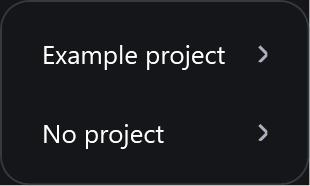
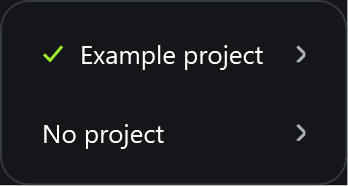
Mark selected project and sort shared session picker by dates

diff --git a/src/CodexUsageWidget/SessionPicker.cs b/src/CodexUsageWidget/SessionPicker.cs
@@ -17,6 +17,7 @@ internal static class SessionPicker
     internal static IReadOnlyList<Group> GroupThreads(IReadOnlyList<ThreadChoice> threads, string? metadata)
     {
         var names = new Dictionary<string, string>(StringComparer.Ordinal);
+        var createdAt = new Dictionary<string, long>(StringComparer.Ordinal);
         var assignments = new Dictionary<string, string>(StringComparer.Ordinal);
         try
         {
@@ -24,8 +25,13 @@ internal static class SessionPicker
             var root = doc.RootElement;
             if (root.TryGetProperty("local-projects", out var projects) && projects.ValueKind == JsonValueKind.Object)
                 foreach (var project in projects.EnumerateObject())
+                {
+                    if (project.Value.ValueKind != JsonValueKind.Object) continue;
                     if (project.Value.TryGetProperty("name", out var name) && name.ValueKind == JsonValueKind.String)
                         names[project.Name] = name.GetString()!;
+                    if (project.Value.TryGetProperty("createdAt", out var date) && date.ValueKind == JsonValueKind.Number &&
+                        date.TryGetInt64(out var timestamp)) createdAt[project.Name] = timestamp;
+                }
             if (root.TryGetProperty("thread-project-assignments", out var map) && map.ValueKind == JsonValueKind.Object)
                 foreach (var item in map.EnumerateObject())
                     if (item.Value.ValueKind == JsonValueKind.Object && item.Value.TryGetProperty("projectId", out var id) && id.ValueKind == JsonValueKind.String)
@@ -35,8 +41,11 @@ internal static class SessionPicker
         return threads.GroupBy(thread => assignments.GetValueOrDefault(thread.Id) ?? "")
             .Select(group => new Group(group.Key, group.Key.Length == 0 ? Localization.Current["NoProject"] :
                 names.GetValueOrDefault(group.Key) ?? group.Select(thread => thread.Cwd?.TrimEnd('\\', '/').Split('\\', '/').LastOrDefault())
-                    .FirstOrDefault(name => !string.IsNullOrWhiteSpace(name)) ?? group.Key, group.ToArray()))
-            .OrderBy(group => group.Key.Length == 0).ThenBy(group => group.Name, StringComparer.CurrentCultureIgnoreCase).ToArray();
+                    .FirstOrDefault(name => !string.IsNullOrWhiteSpace(name)) ?? group.Key,
+                group.OrderByDescending(thread => thread.LastUsedAt).ToArray()))
+            .OrderBy(group => group.Key.Length == 0)
+            .ThenByDescending(group => createdAt.GetValueOrDefault(group.Key, long.MinValue))
+            .ThenBy(group => group.Name, StringComparer.CurrentCultureIgnoreCase).ToArray();
     }
 
     internal static async Task<IReadOnlyList<ThreadChoice>> ReadAllAsync(CodexClient client, string? search = null)
@@ -58,7 +67,11 @@ internal static class SessionPicker
         var menu = new ContextMenu { MaxHeight = 440, MaxWidth = 540 };
         foreach (var group in groups)
         {
-            var heading = new MenuItem { Header = new TextBlock { Text = group.Name, MaxWidth = 420, TextTrimming = TextTrimming.CharacterEllipsis } };
+            var heading = new MenuItem
+            {
+                Header = new TextBlock { Text = group.Name, MaxWidth = 420, TextTrimming = TextTrimming.CharacterEllipsis },
+                IsChecked = group.Threads.Any(thread => thread.Id == selected)
+            };
             foreach (var thread in group.Threads)
             {
                 var item = new MenuItem

diff --git a/src/CodexUsageWidget/MainWindow.xaml.cs b/src/CodexUsageWidget/MainWindow.xaml.cs
@@ -617,7 +617,8 @@ public partial class MainWindow : Window
             project.IsSubmenuOpen = true;
             await Task.Delay(100);
             var submenu = (Popup)project.Template.FindName("PART_Popup", project);
-            if (!submenu.IsOpen || !((MenuItem)project.Items[0]).IsChecked)
+            if (!submenu.IsOpen || !project.IsChecked || !((MenuItem)project.Items[0]).IsChecked ||
+                ((MenuItem)first.Items[1]).IsChecked)
                 throw new InvalidOperationException("Project submenu and selected-session marker must be visible.");
             Capture((FrameworkElement)submenu.Child, Path.Combine(directory, "context-session-threads.png"));
             ((MenuItem)project.Items[0]).RaiseEvent(new RoutedEventArgs(MenuItem.ClickEvent));
@@ -638,6 +639,18 @@ public partial class MainWindow : Window
             if (sessionSettings.Result.ContextThreadId != "b")
                 throw new InvalidOperationException("Settings must use the same grouped picker.");
             sessionSettings.Close();
+            var datedProjects = "{\"local-projects\":{\"old\":{\"name\":\"A older project\",\"createdAt\":10},\"new\":{\"name\":\"Z newer project\",\"createdAt\":20}},\"thread-project-assignments\":{\"old-chat\":{\"projectId\":\"old\"},\"recent-chat\":{\"projectId\":\"new\"},\"earlier-chat\":{\"projectId\":\"new\"}}}";
+            using var datedThreads = JsonDocument.Parse("{\"data\":[{\"id\":\"earlier-chat\",\"name\":\"Earlier chat\",\"updatedAt\":100},{\"id\":\"old-chat\",\"name\":\"Older project chat\",\"updatedAt\":9999},{\"id\":\"recent-chat\",\"name\":\"Recent chat\",\"recencyAt\":300,\"updatedAt\":150},{\"id\":\"unassigned\",\"name\":\"No project chat\",\"updatedAt\":99999}]}");
+            var ordered = SessionPicker.GroupThreads(ThreadPage.Parse(datedThreads.RootElement).Threads, datedProjects);
+            if (ordered[0].Key != "new" || ordered[1].Key != "old" || ordered[2].Key != "" ||
+                ordered[0].Threads[0].Id != "recent-chat" || ordered[0].Threads[1].Id != "earlier-chat")
+                throw new InvalidOperationException("Projects must sort by creation and chats by last use, newest first.");
+            var selectedMenu = SessionPicker.Build(ordered, "recent-chat", _ => { });
+            if (!((MenuItem)selectedMenu.Items[0]).IsChecked || ((MenuItem)selectedMenu.Items[1]).IsChecked)
+                throw new InvalidOperationException("Only the selected session's project may have a checkmark.");
+            var unassignedMenu = SessionPicker.Build(ordered, "unassigned", _ => { });
+            if (!((MenuItem)unassignedMenu.Items[2]).IsChecked || ((MenuItem)unassignedMenu.Items[0]).IsChecked)
+                throw new InvalidOperationException("No project must receive the checkmark for an unassigned selection.");
         }
         finally { Environment.SetEnvironmentVariable("CODEX_HOME", previousHome); }
         File.WriteAllText(Path.Combine(directory, "context-verification.txt"), "PASS: current context, missing metadata, session switching, compaction, partial writes, expanded/compact UI, color preview, persistence, validation and cancellation.");

diff --git a/src/CodexUsageWidget.Core/ExtraInfo.cs b/src/CodexUsageWidget.Core/ExtraInfo.cs
@@ -77,14 +77,15 @@ public sealed record ExtraInfoSnapshot(string? AccountType, string? Plan, bool? 
     }
 }
 
-public sealed record ThreadChoice(string Id, string Name, string? Cwd = null);
+public sealed record ThreadChoice(string Id, string Name, string? Cwd = null, long? LastUsedAt = null);
 public sealed record ThreadPage(IReadOnlyList<ThreadChoice> Threads, string? Cursor)
 {
     public static ThreadPage Parse(JsonElement payload) => new(ExtraJson.Array(payload, "data")?
         .Where(row => !string.IsNullOrWhiteSpace(ExtraJson.Text(row, "id")))
         .Select(row => new ThreadChoice(ExtraJson.Text(row, "id")!,
             new[] { ExtraJson.Text(row, "name"), ExtraJson.Text(row, "preview"), ExtraJson.Text(row, "id") }
-                .First(value => !string.IsNullOrWhiteSpace(value))!, ExtraJson.Text(row, "cwd"))).ToArray() ?? [],
+                .First(value => !string.IsNullOrWhiteSpace(value))!, ExtraJson.Text(row, "cwd"),
+            ExtraJson.Number(row, "recencyAt") ?? ExtraJson.Number(row, "updatedAt"))).ToArray() ?? [],
         ExtraJson.Text(payload, "nextCursor"));
 }
 

diff --git a/src/CodexUsageWidget/ExtraInfoWindow.xaml.cs b/src/CodexUsageWidget/ExtraInfoWindow.xaml.cs
@@ -213,7 +213,7 @@ public partial class ExtraInfoWindow : WidgetDialogWindow
         await SessionPicker.OpenAsync(ChooseThread,
             () => _client is null ? Task.FromResult<IReadOnlyList<ThreadChoice>>([new("demo-chat", "Example conversation")]) :
                 SessionPicker.ReadAllAsync(_client, ThreadSearch.Text.Trim()),
-            _selectedThread?.Id, async choice => { if (!_lifetime.IsCancellationRequested) await SelectThreadAsync(choice); });
+            _selectedThread?.Id ?? _settings.ContextThreadId, async choice => { if (!_lifetime.IsCancellationRequested) await SelectThreadAsync(choice); });
     }
     internal async Task SelectThreadAsync(ThreadChoice choice)
     {

diff --git a/docs/architecture.md b/docs/architecture.md
@@ -117,3 +117,5 @@ Run scripts/release.ps1 -ContextOnly for feature-only English verification and b
 ### Project session selection
 
 SessionPicker provides a common asynchronous menu for the context area, Settings and Extra info. Each opening fetches fresh paginated thread summaries and local desktop project metadata. Groups use project IDs, avoiding accidental merges of projects with identical display names; explicit unassigned sessions remain in No project even if they have a working directory. Membership metadata is read only and never modified. Reopening while a prior request is pending cannot reopen a dismissed loading menu.
+
+Project headings show a checkmark when they contain the selected session. The shared picker orders projects by createdAt descending and sessions by recencyAt (or updatedAt when unavailable) descending. No project stays last. Undated projects sort after dated projects with a name tie-breaker; undated sessions retain their incoming order. Ordering and selection markers are implemented once in SessionPicker for every entry point.

diff --git a/README.md b/README.md
@@ -161,3 +161,5 @@ The widget reads the last 256 KiB of that conversation's local journal under COD
 Right-click the context label or bar to choose a session. The mouse icon marks this gesture. Project submenus and the localized No project group use the same shared picker in Settings and Extra info. The selected session has a checkmark. Settings selection takes effect when saved and is discarded on Cancel.
 
 Every opening refetches all pages of thread/list and rereads CODEX_HOME/.codex-global-state.json for local project names and explicit thread-project assignments. This internal desktop metadata format may change; missing assignments fall back to No project. A thread's working directory alone does not establish project membership. No session-list cache is retained between openings.
+
+Project headings also mark the selected session's project. Projects appear newest-created first; sessions appear most-recently-used first. No project remains at the bottom. This ordering is shared by the context menu, Settings and Extra info.

diff --git a/CHANGELOG.md b/CHANGELOG.md
@@ -1,5 +1,12 @@
 # Changelog
 
+## 0.12.1 — 2026-10-22 (local build)
+
+- Added a checkmark to the project containing the selected session, including No project for unassigned sessions.
+- Sorted projects by creation date and sessions by most recent usage, newest first. No project remains last; unknown dates retain a stable fallback order.
+- All entry points use the same SessionPicker implementation and reload their data on every opening.
+- Verified only context/picker ordering, selection markers and UTF-8 functionality; built Portable and Lite locally.
+
 ## 0.12.0 — 2026-10-22 (local build)
 
 - Added right-click session selection on the context bar in expanded and compact views, with a small mouse icon highlighting the right button.

diff --git a/docs/releases/v0.12.1.md b/docs/releases/v0.12.1.md
@@ -1,0 +1,8 @@
+# Codex Usage Widget v0.12.1
+
+- Added a checkmark to the project containing the selected session, including No project for unassigned sessions.
+- Sorted projects by creation date and sessions by most recent usage, newest first. No project remains last; unknown dates retain a stable fallback order.
+- All entry points use the same SessionPicker implementation and reload their data on every opening.
+- Verified only context/picker ordering, selection markers and UTF-8 functionality; built Portable and Lite locally.
+
+Portable includes the runtime. Lite requires Microsoft .NET 10 Desktop Runtime (Windows x64). Both archives include SHA-256 checksums.
